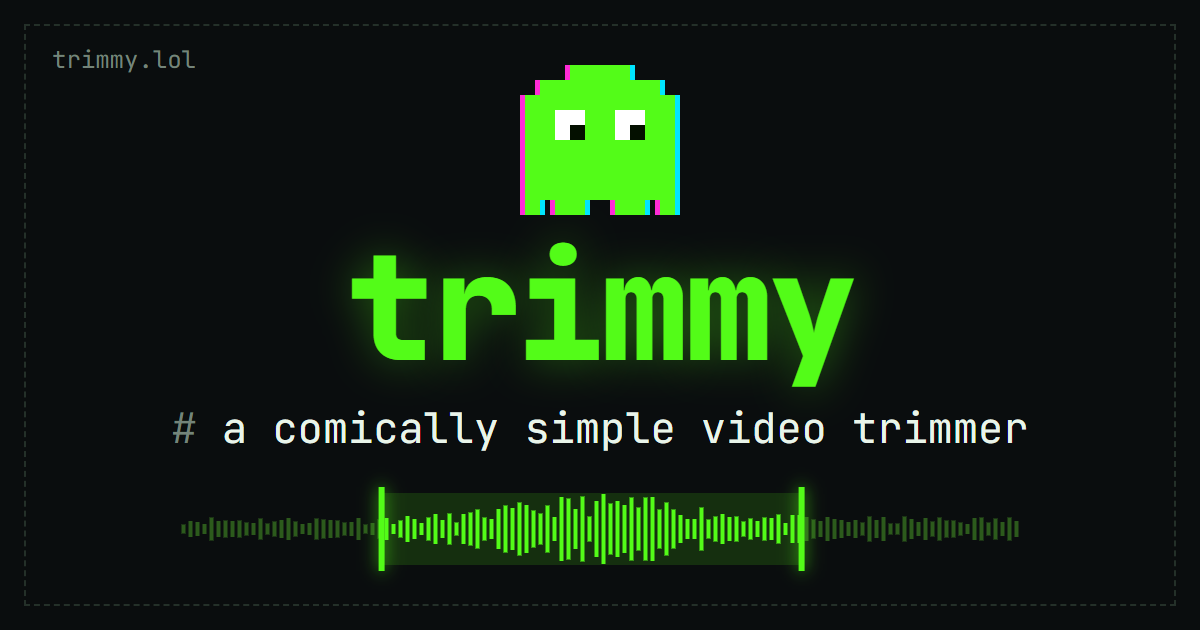
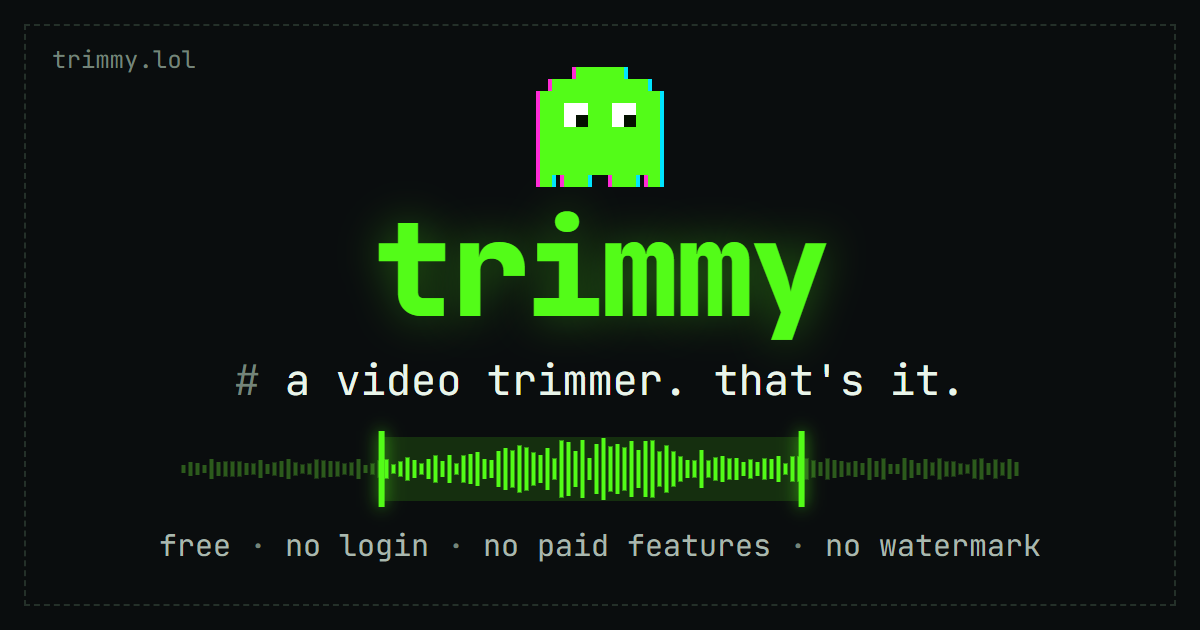
Say "A video trimmer. That's it." and spell out that it's free
Replaces the "comically simple video trimmer" tagline everywhere: the site, its link-preview
card and texts, the README, and the app's Cargo and bundle descriptions.

The site now lists what you don't get right above the download button (no login, no paid
features, no watermark, no ads, no upload), and the card and search description say so too.
Copy that said "made for game clips" now adds that it works on just about any video.

site/assets/make.py keeps the font's own timestamp, so rerunning it no longer changes the
committed fonts.

Changed region(s): [[0.185, 0.1206, 0.8017, 0.6333], [0.1233, 0.6635, 0.8633, 0.9048], [0.4625, 0.0905, 0.5242, 0.1206]]

diff --git a/site/index.html b/site/index.html
@@ -135,14 +135,20 @@ h1 span {
 
 /* Phones held sideways: keep the download button on the first screen. */
 @media (orientation: landscape) and (max-height: 30rem) {
-  .hero { padding-block: 1.5rem; gap: 0.75rem }
+  .hero { padding-block: 1rem; gap: 0.6rem }
   .ghost { width: 64.8px; height: 60px }
-  h1 { font-size: 3.5rem }
+  h1 { font-size: 3rem }
+  h1 span { margin-top: 0.6rem }
 }
 
 .c { color: var(--muted) }
 .c::before { content: "# " / "" }
 .how { text-wrap: balance }
+
+/* The deal, as ticked boxes: [x] free [x] no login ... */
+.deal { display: flex; flex-wrap: wrap; justify-content: center; gap: 0.2rem 1.5rem; color: var(--fg) }
+.deal li { margin: 0; padding: 0; text-indent: 0; white-space: nowrap }
+.deal li::before { content: "[x] " / ""; color: var(--accent) }
 
 .btn {
   display: inline-block;
@@ -214,10 +220,11 @@ footer nav a::after { content: "]" / ""; color: var(--muted) }
 <main>
 <section class="hero" aria-labelledby="name">
 <svg class="ghost" viewBox="-0.4 0 10.8 10" width="108" height="100" aria-hidden="true" focusable="false" shape-rendering="crispEdges"><defs><path id="g" d="M3 0h4v1h2v1h1v8H9V9H8v1H6V9H4v1H2V9H1v1H0V2h1V1h2z"/></defs><use href="#g" x="-0.35" fill="#ff2bd6"/><use href="#g" x="0.35" fill="#00e5ff"/><use href="#g" fill="#53fc18"/><path fill="#fff" d="M2 3h2v1H3v1H2zm4 0h2v1H7v1H6z"/><path fill="#041000" d="M3 4h1v1H3zm4 0h1v1H7z"/></svg>
-<h1 id="name">trimmy <span>a comically simple video trimmer</span></h1>
-<p class="how c">open a clip. drag the start and end. export. that's the whole app.</p>
+<h1 id="name">trimmy <span>a video trimmer. that's it.</span></h1>
+<p class="how c">open a clip. drag the start and end. export.</p>
+<ul class="deal" role="list"><li>free</li> <li>no login</li> <li>no paid features</li> <li>no watermark</li> <li>no ads</li> <li>no upload</li></ul>
 <a class="btn" href="{{winUrl}}">download for windows</a>
-<p class="meta dots"><!--if:version--><span>v{{version}}</span> <span>{{winSize}}</span> <!--/if:version--><span>windows 10 &amp; 11</span> <span>free, open source</span></p>
+<p class="meta dots"><!--if:version--><span>v{{version}}</span> <span>{{winSize}}</span> <!--/if:version--><span>windows 10 &amp; 11</span> <span>open source</span></p>
 <p class="more dots"><!--if:macUrl--><span><a href="{{macUrl}}">macos (untested)</a></span> <!--/if:macUrl--><!--if:msiUrl--><span><a href="{{msiUrl}}">msi</a></span> <!--/if:msiUrl--><span><a href="{{notesUrl}}">release notes</a></span></p>
 </section>
 
@@ -231,20 +238,20 @@ footer nav a::after { content: "]" / ""; color: var(--muted) }
 <section aria-labelledby="does">
 <h2 id="does">what it does</h2>
 <ul role="list">
-<li><b>Opens any common video.</b> MP4, MKV, MOV, WebM, AVI, TS, WMV, FLV and more, in H.264, HEVC, AV1 or VP9.</li>
+<li><b>Opens just about any video.</b> Game clips, phone videos, screen recordings, downloads: MP4, MKV, MOV, WebM, AVI, TS, WMV, FLV and more, in H.264, HEVC, AV1 or VP9.</li>
 <li><b>Four ways in:</b> drag it onto the window, paste its path, browse (Ctrl+O), or right-click it and pick Open with.</li>
 <li><b>Shows the waveform,</b> so you can see where the shot, the kill or the shout is.</li>
 <li><b>Exports in about a second</b> with zero quality loss, because it doesn't re-encode.</li>
 <li><b>Keeps every audio track,</b> so game audio and your mic both come through.</li>
 <li><b>Never touches the original.</b> Your clip is saved next to it as <code>name_trimmed.mp4</code>.</li>
-<li><b>Stays on your PC.</b> No account, no upload, no watermark.</li>
+<li><b>Stays on your PC.</b> Nothing gets uploaded, there's no telemetry, and it works offline.</li>
 </ul>
 </section>
 
 <section aria-labelledby="doesnt">
 <h2 id="doesnt">what it doesn't do</h2>
 <p class="nope"><s>titles</s> <s>transitions</s> <s>filters</s> <s>music</s> <s>stickers</s> <s>multiple clips</s> <s>tracks</s> <s>projects</s> <s>accounts</s> <s>ai</s></p>
-<p><b>It trims. That's it.</b> Made for NVIDIA ShadowPlay, AMD ReLive, OBS and Xbox Game Bar recordings, when all you want is the good ten seconds.</p>
+<p><b>It trims. That's it.</b> Made with game clips in mind (NVIDIA ShadowPlay, AMD ReLive, OBS, Xbox Game Bar), for when all you want is the good ten seconds. It works on just about any other video too: phone videos, screen recordings, downloads.</p>
 </section>
 
 <section aria-labelledby="install">
@@ -261,7 +268,7 @@ footer nav a::after { content: "]" / ""; color: var(--muted) }
 <h2 id="faq">faq</h2>
 <details>
 <summary>Is it really free?</summary>
-<p>Yes. Trimmy is free and open source (MIT license): no ads, no account, no trial, no watermark.</p>
+<p>Yes, all of it. There's no login or sign-up, no paid features or pro version, no subscription, no trial, no ads, and no watermark on your clips. Trimmy is open source under the MIT license.</p>
 </details>
 <details>
 <summary>Does trimming lose quality?</summary>

diff --git a/site/assets/og.html b/site/assets/og.html
@@ -16,11 +16,13 @@
   body { position: relative; display: flex; flex-direction: column; align-items: center; justify-content: center; font-family: JBM, monospace; color: #e9f5ea }
   .frame { position: absolute; inset: 24px; border: 2px dashed #243029 }
   .url { position: absolute; top: 44px; left: 52px; font-size: 24px; color: #74847a }
-  .ghost { display: block; width: 162px; height: 150px }
-  h1 { margin: 18px 0 0; font-size: 148px; font-weight: 800; line-height: 1; letter-spacing: -0.03em; color: #53fc18; text-shadow: 0 0 44px rgb(83 252 24 / 0.35) }
-  p { margin: 22px 0 0; font-size: 42px; line-height: 1.2 }
-  p span { color: #74847a }
-  .timeline { display: block; margin-top: 40px; overflow: visible }
+  .ghost { display: block; width: 129.6px; height: 120px }
+  h1 { margin: 16px 0 0; font-size: 132px; font-weight: 800; line-height: 1; letter-spacing: -0.03em; color: #53fc18; text-shadow: 0 0 44px rgb(83 252 24 / 0.35) }
+  p { margin: 20px 0 0; font-size: 42px; line-height: 1.2 }
+  p span, .deal i { color: #74847a }
+  .timeline { display: block; margin-top: 32px; overflow: visible }
+  .deal { margin-top: 26px; font-size: 30px; color: #a9b8ae }
+  .deal i { font-style: normal }
 </style>
 </head>
 <body>
@@ -28,12 +30,13 @@
 <div class="url">trimmy.lol</div>
 <svg class="ghost" viewBox="-0.4 0 10.8 10" shape-rendering="crispEdges"><defs><path id="g" d="M3 0h4v1h2v1h1v8H9V9H8v1H6V9H4v1H2V9H1v1H0V2h1V1h2z"/></defs><use href="#g" x="-0.35" fill="#ff2bd6"/><use href="#g" x="0.35" fill="#00e5ff"/><use href="#g" fill="#53fc18"/><path fill="#fff" d="M2 3h2v1H3v1H2zm4 0h2v1H7v1H6z"/><path fill="#041000" d="M3 4h1v1H3zm4 0h1v1H7z"/></svg>
 <h1>trimmy</h1>
-<p><span>#</span> a comically simple video trimmer</p>
-<svg class="timeline" id="timeline" width="840" height="72" viewBox="0 0 840 72"></svg>
+<p><span>#</span> a video trimmer. that's it.</p>
+<svg class="timeline" id="timeline" width="840" height="64" viewBox="0 0 840 64"></svg>
+<p class="deal">free <i>·</i> no login <i>·</i> no paid features <i>·</i> no watermark</p>
 <script>
   // A waveform like the app's timeline, with the clip between two handles. Seeded, so every
   // render comes out the same.
-  const W = 840, H = 72, BARS = 120, STEP = W / BARS, IN = 0.24 * W, OUT = 0.74 * W
+  const W = 840, H = 64, BARS = 120, STEP = W / BARS, IN = 0.24 * W, OUT = 0.74 * W
   let seed = 11
   const random = () => (seed = (seed * 16807) % 2147483647) / 2147483647
   let svg = `<rect x="${IN}" width="${OUT - IN}" height="${H}" fill="rgb(83 252 24 / 0.14)"/>`

diff --git a/site/assets/make.py b/site/assets/make.py
@@ -53,7 +53,8 @@ def fonts(node_modules: Path) -> None:
     out = PUBLIC / "fonts"
     out.mkdir(parents=True, exist_ok=True)
     for weight in WEIGHTS:
-        font = TTFont(src / f"jetbrains-mono-latin-{weight}-normal.woff2")
+        # Keep the source's timestamp, so rerunning this doesn't churn the committed files.
+        font = TTFont(src / f"jetbrains-mono-latin-{weight}-normal.woff2", recalcTimestamp=False)
         options = Options()
         options.layout_features = []  # no ligatures: "->" stays two characters
         subsetter = Subsetter(options)

diff --git a/README.md b/README.md
@@ -5,12 +5,15 @@
 <h1 align="center">Trimmy</h1>
 
 <p align="center">
-  <b>A comically simple video trimmer.</b><br>
-  Open a clip. Drag the start and end. Export. That's the whole app.
+  <b>A video trimmer. That's it.</b><br>
+  Open a clip. Drag the start and end. Export.<br>
+  Free: no login, no paid features, no ads, no watermark.
 </p>
 
 <p align="center">
   <a href="https://github.com/TuckerScottAlleborn/trimmy/releases/latest"><b>⬇ Download for Windows</b></a>
+  ·
+  <a href="https://trimmy.lol">trimmy.lol</a>
   ·
   <a href="#macos-untested">macOS (untested)</a>
   ·
@@ -31,6 +34,9 @@ minutes of gameplay at the press of a key. Most of the time you only want a few 
 Opening Clipchamp, Premiere or DaVinci Resolve for that means a timeline, tracks, a project,
 and an export dialog with forty settings. Trimmy is the opposite: one video, two handles, one
 button. No project files, no timeline, no account, no watermark, no upload.
+
+Game clips are what it was built for, but it trims just about any video the same way: phone
+videos, screen recordings, downloads, anything FFmpeg can read.
 
 ## Features
 
